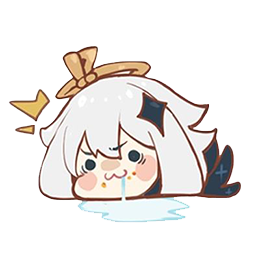
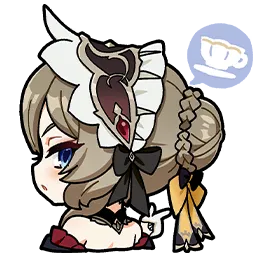
🚸 随机loading

diff --git a/src/components/func/loading.vue b/src/components/func/loading.vue
@@ -17,8 +17,8 @@
               {{ data.subtitle }}
             </div>
             <div class="loading-img">
-              <img v-if="!data.empty" alt="loading" src="/source/UI/loading.webp" />
-              <img v-else alt="empty" src="/source/UI/empty.webp" />
+              <img v-if="data.empty" alt="loading" src="/source/UI/empty.webp" />
+              <img v-else :src="iconUrl" alt="empty" />
             </div>
           </div>
         </div>
@@ -27,9 +27,13 @@
   </transition>
 </template>
 <script lang="ts" setup>
+import showSnackbar from "@comp/func/snackbar.js";
+import bbsReq from "@req/bbsReq.js";
 import { onMounted, ref, shallowRef, watch } from "vue";
 
 import { LoadingParams } from "./loading.js";
+
+const defaultIcon = "/source/UI/loading.webp";
 
 const showBox = ref<boolean>(false);
 const showOuter = ref<boolean>(false);
@@ -37,6 +41,8 @@ const showInner = ref<boolean>(false);
 
 const props = defineProps<LoadingParams>();
 const data = shallowRef<LoadingParams>(props);
+const localEmojis = shallowRef<Array<string>>([]);
+const iconUrl = ref<string>(defaultIcon);
 
 watch(
   () => showBox.value,
@@ -56,11 +62,27 @@ watch(
 
 onMounted(async () => await displayBox(props));
 
+async function getRandomEmoji(): Promise<void> {
+  if (localEmojis.value.length === 0) {
+    const resp = await bbsReq.emojis();
+    if ("retcode" in resp) {
+      console.error(resp);
+      showSnackbar.error("获取表情包失败！");
+      iconUrl.value = defaultIcon;
+      return;
+    }
+    localEmojis.value = Object.values(resp);
+    localStorage.setItem("emojis", JSON.stringify(resp));
+  }
+  iconUrl.value = localEmojis.value[Math.floor(Math.random() * localEmojis.value.length)];
+}
+
 async function displayBox(params: LoadingParams): Promise<void> {
   if (!params.show) {
     showBox.value = false;
     await new Promise<void>((resolve) => setTimeout(resolve, 500));
     data.value = { show: false, title: undefined, subtitle: undefined, empty: undefined };
+    await getRandomEmoji();
     return;
   }
   data.value = {
@@ -175,14 +197,15 @@ defineExpose({ displayBox });
 .loading-img {
   display: flex;
   width: 100%;
-  height: 200px;
+  height: 160px;
   align-items: center;
   justify-content: center;
 
   img {
     max-width: 100%;
-    max-height: 200px;
-    border-radius: 5px;
+    max-height: 160px;
+    border-radius: 4px;
+    aspect-ratio: 1;
   }
 }
 

diff --git a/src/pages/common/PageTest.vue b/src/pages/common/PageTest.vue
@@ -19,14 +19,12 @@
   </div>
 </template>
 <script lang="ts" setup>
-import useAppStore from "@store/app.js";
-import { tryReadGameVer } from "@utils/TGGame.js";
-import { storeToRefs } from "pinia";
-
-const { gameDir } = storeToRefs(useAppStore());
+import showLoading from "@comp/func/loading.js";
 
 async function test() {
-  await tryReadGameVer(gameDir.value);
+  await showLoading.start("测试");
+  await new Promise<void>((resolve) => setTimeout(resolve, 1000));
+  await showLoading.end();
 }
 </script>
 <style lang="css" scoped>
